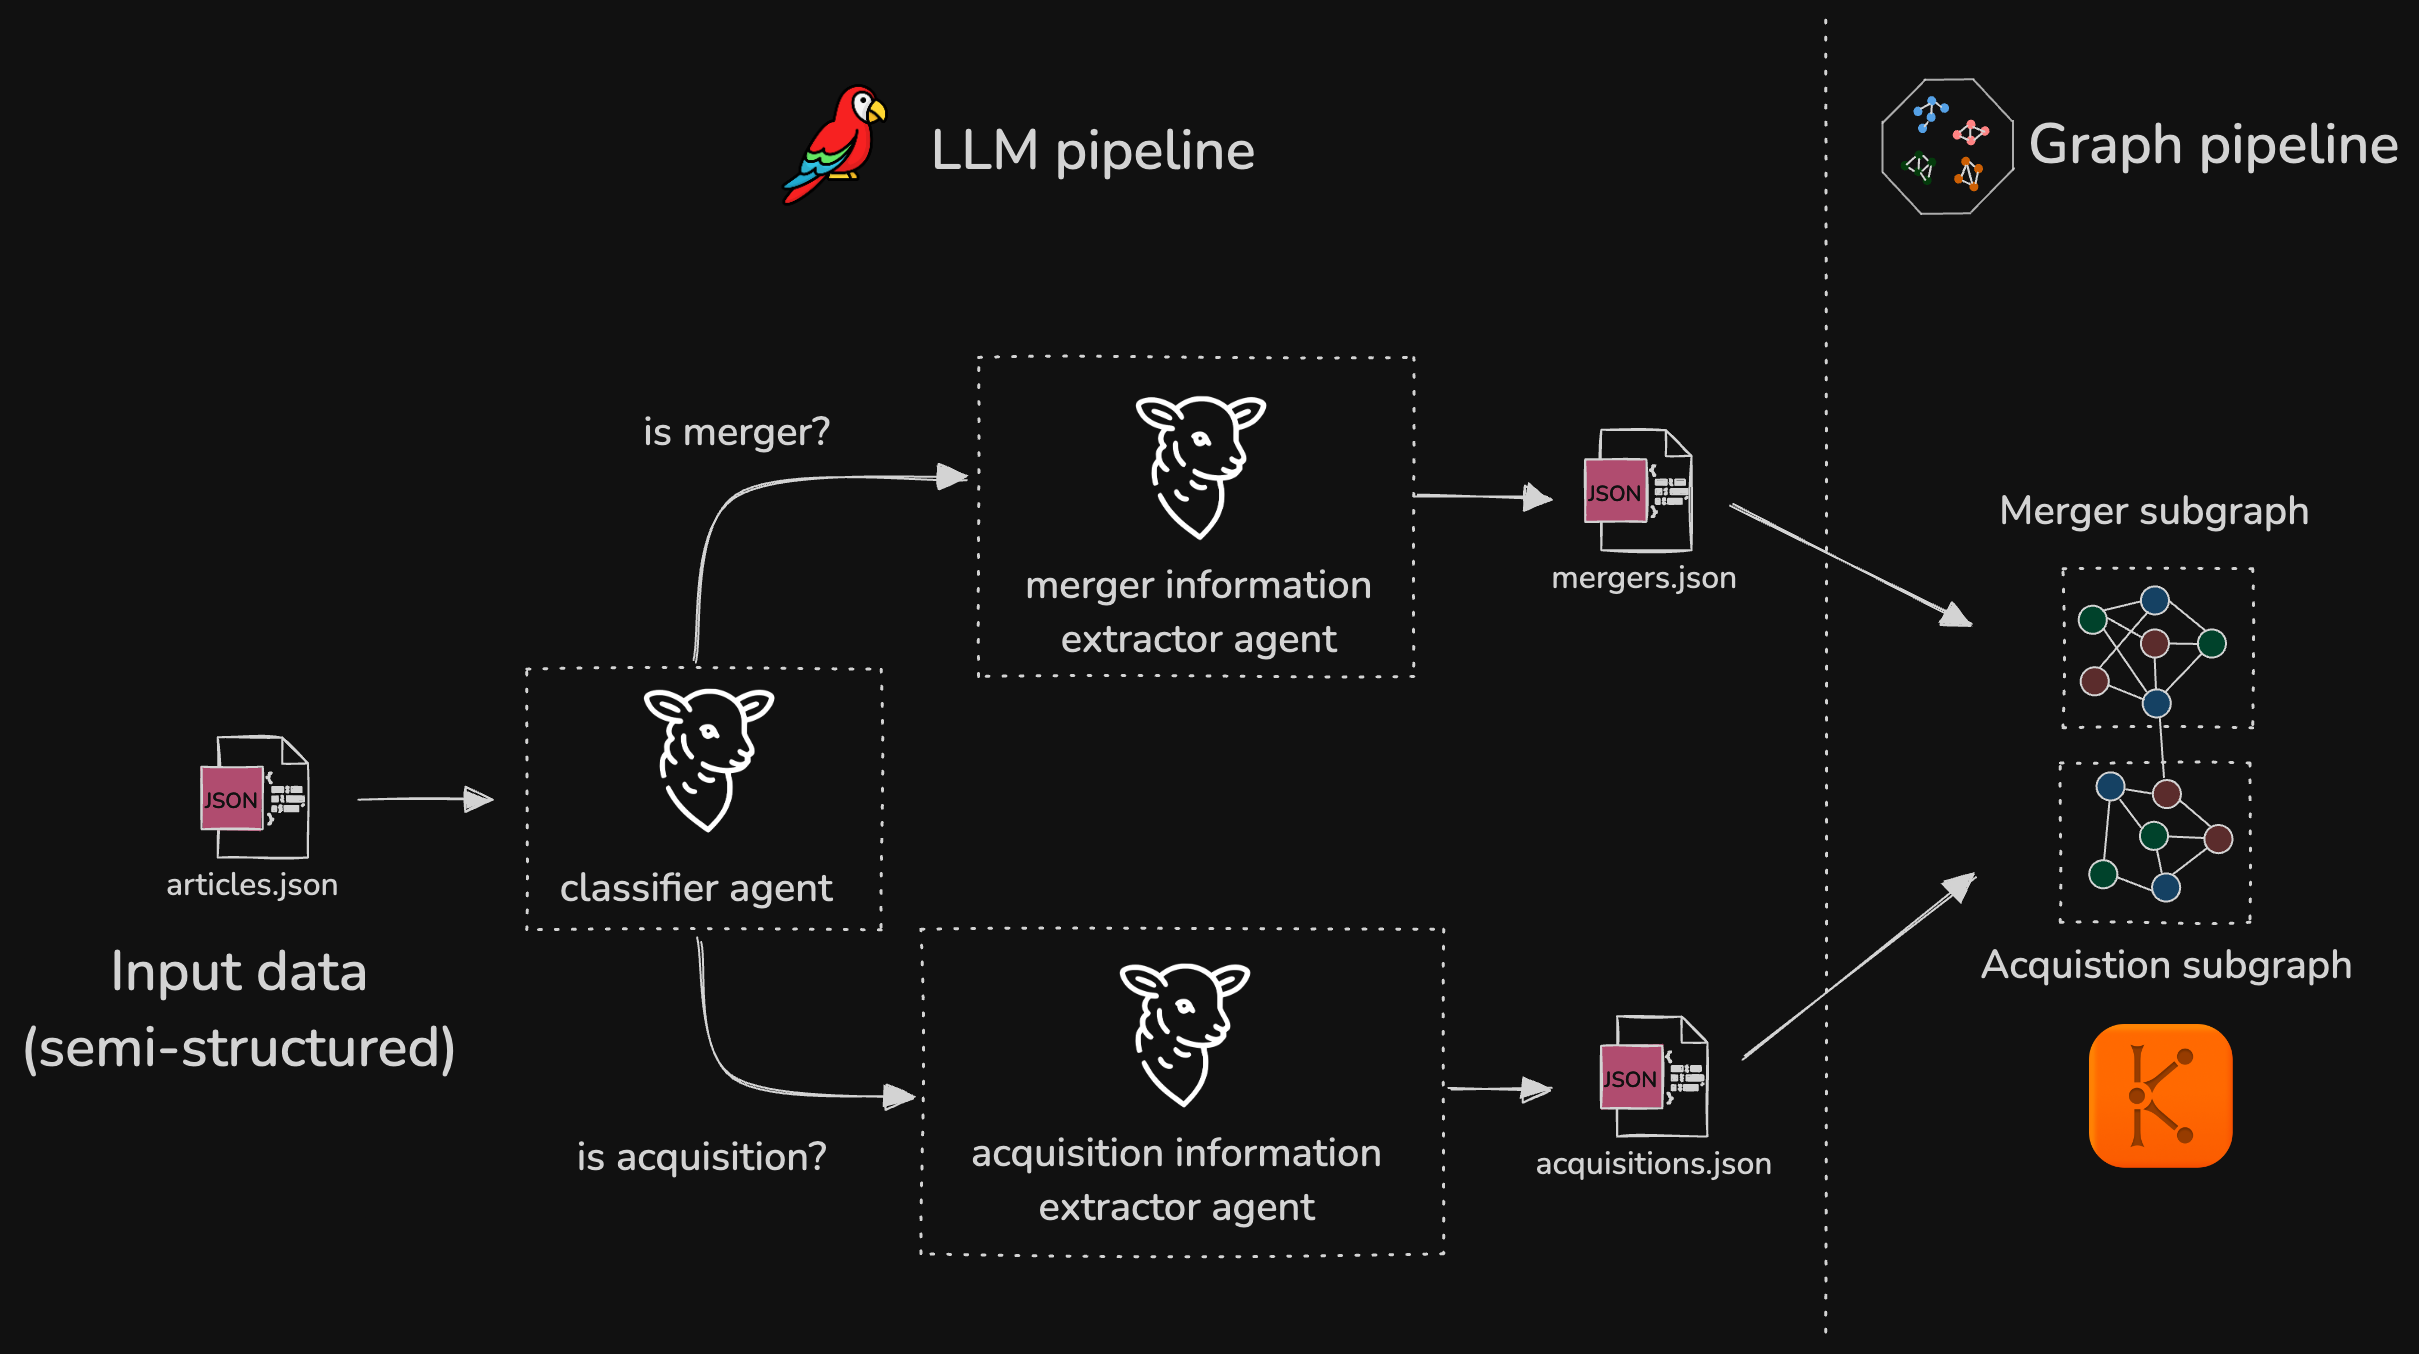
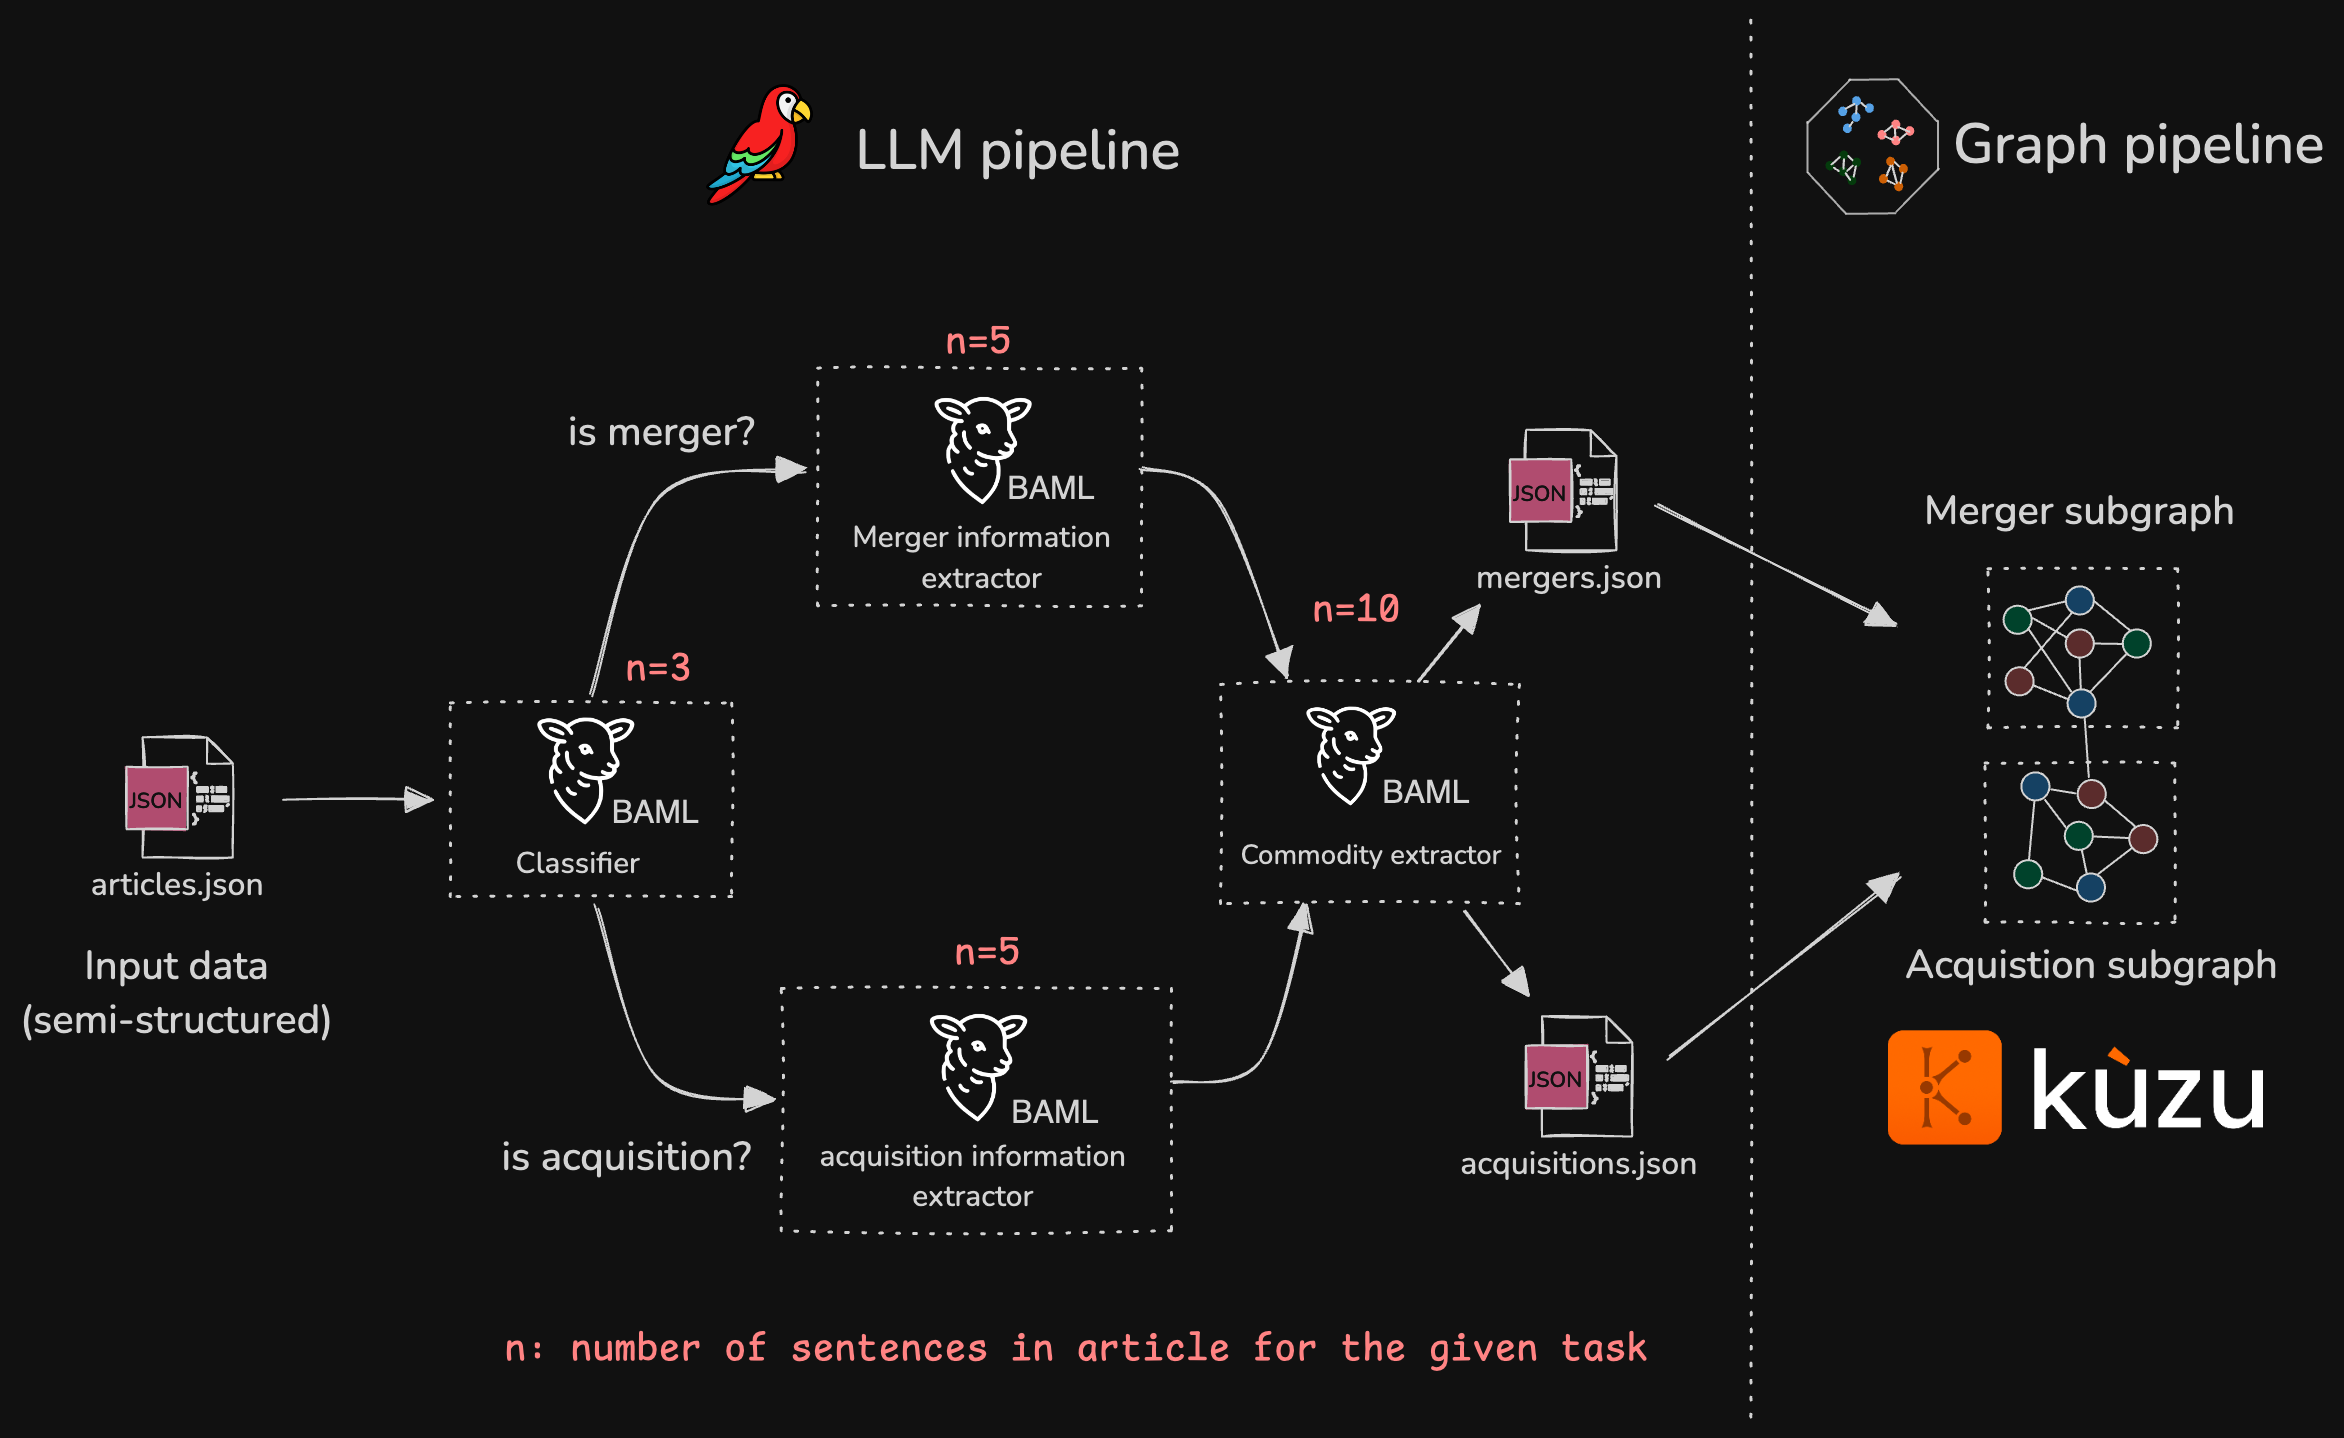
Update diagram and docs

diff --git a/README.md b/README.md
@@ -31,9 +31,10 @@ The steps are as follows:
 
 1. Sketch a schema for the knowledge graph.
 2. Use a series of BAML functions to prompt an LLM to extract structured data from the raw articles.
-  - Agent 1: Classify a news article as either a merger, acquisition, or neither.
-  - Agent 2: Extract the information from articles that are about mergers into `data/mergers.json`.
-  - Agent 3: Extract the information from articles that are about acquisitions into `data/acquisitions.json`.
+  - Function 1: Classify a news article as either a merger, acquisition, or neither.
+  - Function 2: Extract the information from articles that are about mergers into `data/mergers.json`.
+  - Function 3: Extract the information from articles that are about acquisitions into `data/acquisitions.json`.
+  - Function 4: Extract the commodities that are produced by the companies & countries mentioned in the articles.
 3. Create a knowledge graph in Kuzu using the data extracted by the LLMs.
 4. Query the knowledge graph using Cypher.
 
